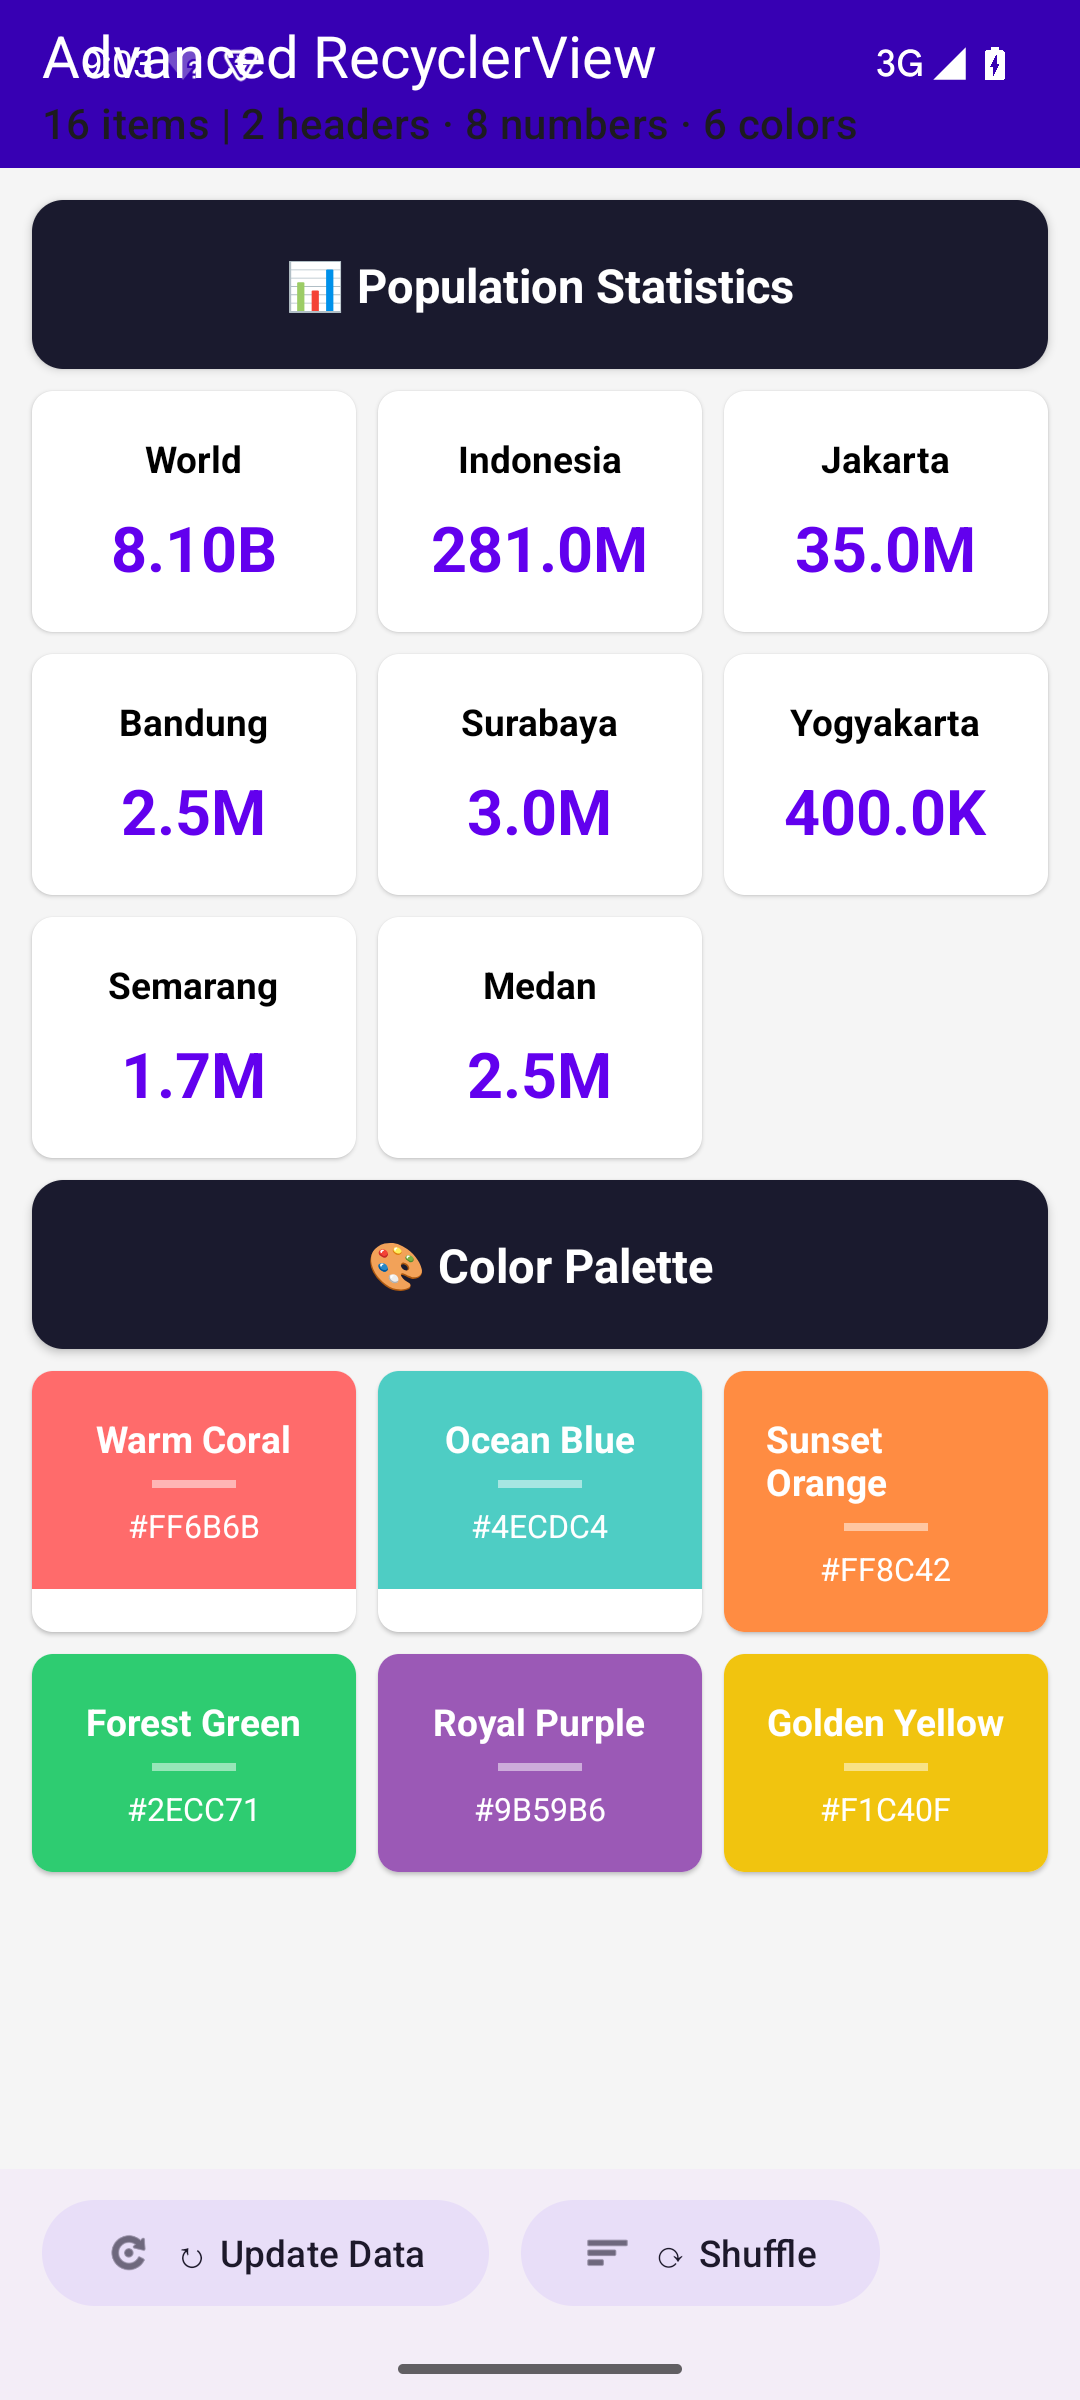
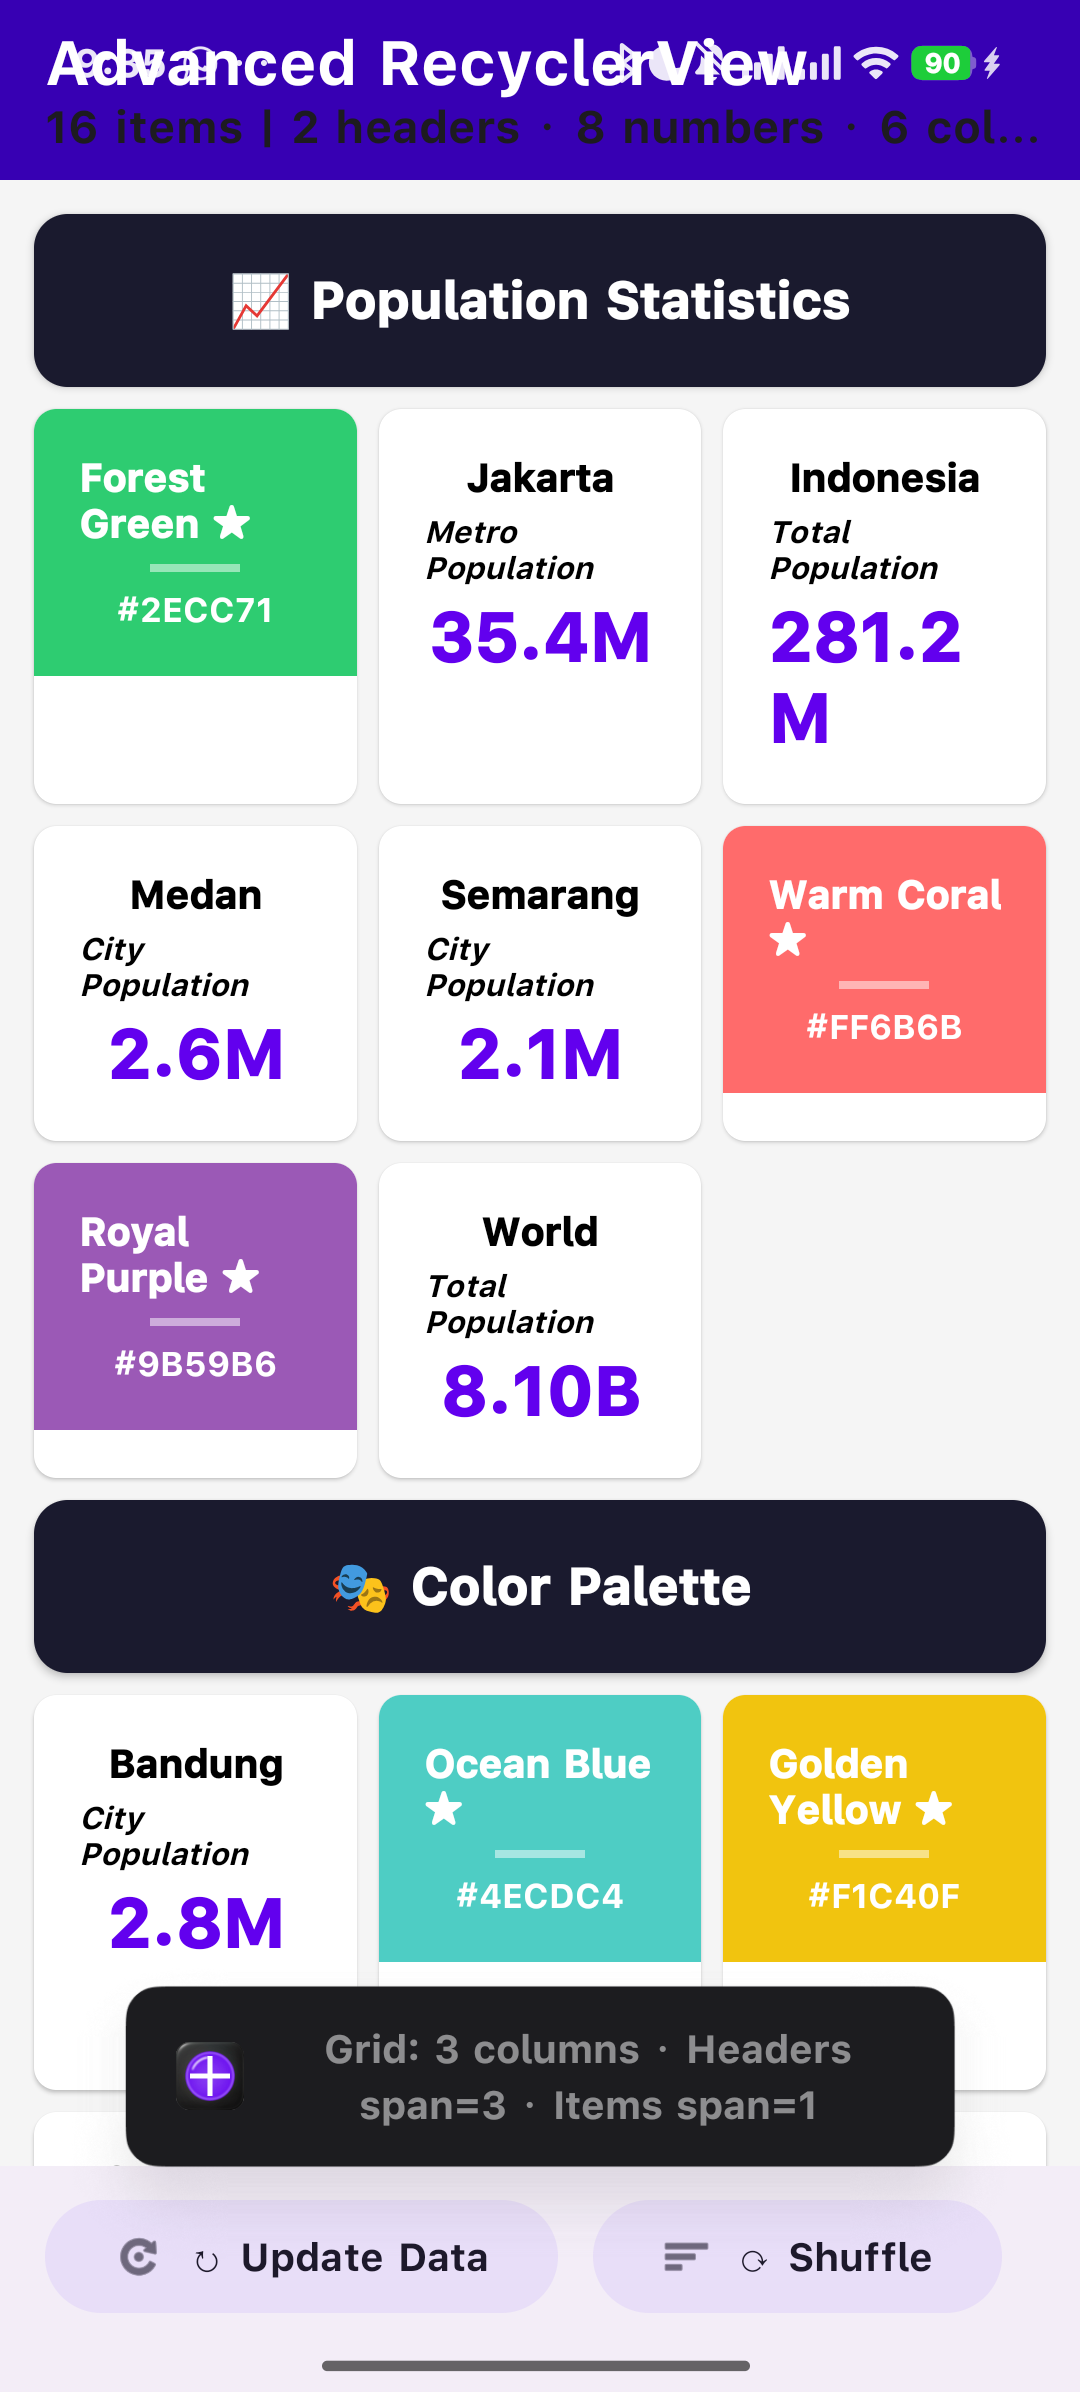
fix: perbaiki bug item_number, update ke Android 15, tambah CardView dependency, enableEdgeToEdge, update screenshot

diff --git a/app/src/main/java/com/example/tugas10/MainActivity.kt b/app/src/main/java/com/example/tugas10/MainActivity.kt
@@ -1,7 +1,9 @@
 package com.example.tugas10
 
 import android.os.Bundle
+
 import android.widget.Toast
+import androidx.activity.enableEdgeToEdge
 import androidx.appcompat.app.AppCompatActivity
 import androidx.databinding.DataBindingUtil
 import androidx.lifecycle.ViewModelProvider
@@ -27,6 +29,7 @@ class MainActivity : AppCompatActivity() {
 
     override fun onCreate(savedInstanceState: Bundle?) {
         super.onCreate(savedInstanceState)
+        enableEdgeToEdge()
 
         binding = DataBindingUtil.setContentView(this, R.layout.activity_main)
         viewModel = ViewModelProvider(this)[MainViewModel::class.java]

diff --git a/README.md b/README.md
@@ -12,25 +12,25 @@
 
 ---
 
-## Screenshot
+## Screenshot (HP Android 15 — Xiaomi 25098RA98G)
 
 **Tampilan Grid (Multiple View Types)**
 
 ![Grid View](screenshots/tugas10_grid.png)
 
- Jadi disini bisa diliat ada 3 jenis tampilan item yang berbeda. Header span nya 3 jadi full satu baris, terus item number sama color masing-masing 1 kolom doang.
+Ada 3 jenis tampilan item: Header (span 3, full baris), Number Item (1 kolom), dan Color Item (1 kolom). Deskripsi dan angka sekarang terpisah rapi.
 
 **Setelah Update Data**
 
 ![After Update](screenshots/tugas10_updated.png)
 
-Ini pas gw pencet tombol Update Data, angka populasinya nambah random. Yang keupdate cuma item-item yang berubah aja, yang lain diem. Makanya pake ListAdapter tuh enak, gak perlu render ulang semua.
+Pas tombol Update Data ditekan, angka populasi nambah random. DiffUtil cuma nge-render ulang item yang berubah aja, sisanya diem.
 
 **Setelah Di-shuffle**
 
 ![After Shuffle](screenshots/tugas10_shuffle.png)
 
-Tombol Shuffle ngacak urutan item tapi Headernya tetep di tempat. DiffUtil otomatis deteksi pergerakan dan cuma animasi item yang pindah doang, mantep.
+Tombol Shuffle ngacak urutan item non-Header. Header tetep di tempat, DiffUtil deteksi pergerakan dan cuma animasi item yang pindah.
 
 ---
 
@@ -38,53 +38,52 @@ Tombol Shuffle ngacak urutan item tapi Headernya tetep di tempat. DiffUtil otoma
 
 ### 1. ListAdapter + DiffUtil
 
-Biasanya kalo pake RecyclerView.Adapter biasa, tiap kali data berubah kita harus panggil `notifyDataSetChanged()` yang nge-render ulang SEMUA item dari awal. Boros banget apalagi kalo datanya banyak.
+Pake `ListAdapter` yang nerima `DiffUtil.ItemCallback`. Pas data di-update, DiffUtil ngebandingin item-item lama vs baru di background thread, terus cuma item yang berubah aja yang di-render ulang.
 
-Nah disini gw pake `ListAdapter` yang nerima `DiffUtil.ItemCallback`. Jadi pas data di-update, DiffUtil bakal ngebandingin item-item lama sama baru di background thread, terus cuma item yang beneran berubah aja yang di-render ulang. Implementasi callbacknya:
-
-- `areItemsTheSame()` - ngecek pake `id`, kalo id nya sama berarti item itu sama cuma mungkin isinya berubah
-- `areContentsTheSame()` - ngecek pake equals data class, kalo semua properti sama ya gak usah di-render ulang
+- `areItemsTheSame()` — ngecek pake `id`
+- `areContentsTheSame()` — ngecek pake equals data class
 
 ### 2. Multiple View Types
 
-Adapter ini bisa nampilin 3 jenis layout berbeda dalam satu RecyclerView:
-
-- **HEADER** - buat judul section, background gelap, full width
-- **NUMBER_ITEM** - nampilin data populasi dengan format angka otomatis (pake BindingAdapter)
-- **COLOR_ITEM** - item dengan background warna-warni, pake custom BindingAdapter juga
-
-Caranya tinggal override `getItemViewType()` terus balikin nilai sesuai tipe itemnya.
+Adapter nampilin 3 jenis layout dalam satu RecyclerView:
+- **HEADER** — judul section, full width (span 3)
+- **NUMBER_ITEM** — data populasi dengan format angka otomatis
+- **COLOR_ITEM** — item dengan background warna-warni
 
 ### 3. GridLayoutManager + SpanSizeLookup
 
-RecyclerView pake GridLayoutManager dengan 3 kolom. Biar Headernya bisa full width, gw pake SpanSizeLookup:
-
-- HEADER -> span 3 (full baris)
-- NUMBER_ITEM -> span 1
-- COLOR_ITEM -> span 1
-
-Jadi layoutnya rapi, Headernya gak kepotong kolom.
+GridLayoutManager 3 kolom + SpanSizeLookup:
+- HEADER → span 3 (full baris)
+- NUMBER_ITEM → span 1
+- COLOR_ITEM → span 1
 
 ### 4. Custom BindingAdapter
 
-Buat ngisi value dari XML langsung tanpa harus nulis kode binding di ViewHolder, gw bikin 2 BindingAdapter:
-
-- `backgroundColorHex` - ngeset background color dari string hex langsung di XML layout, misal `app:backgroundColorHex="@{item.colorHex}"`
-- `formattedNumber` - ngeformat angka gede biar enak dibaca, misal 8.1M, 281K, 1.5M, dll
+2 BindingAdapter kustom:
+- `backgroundColorHex` — set background color dari string hex di XML
+- `formattedNumber` — format angka besar (8.1B, 281.0M, 2.5M, dll)
 
 ### 5. ViewHolder Pattern
 
-ViewHolder dibuat pake constructor private terus factory method di companion object. Jadi cara bikin ViewHolder-nya lewat `ViewHolder.from(parent)` aja, lebih bersih dan gak bisa diinstansiasi sembarangan.
+Private constructor + companion object factory `from(parent)`, lebih clean.
+
+### 6. Android 15 — Edge-to-Edge
+
+Panggil `enableEdgeToEdge()` di `onCreate()` biar UI optimal di HP Android 15.
+
+### 7. CardView Dependency Eksplisit
+
+`implementation("androidx.cardview:cardview:1.0.0")` ditambahkan biar dependency lebih jelas.
 
 ---
 
 ## Perbedaan RecyclerView.Adapter vs ListAdapter
 
 **RecyclerView.Adapter biasa:**
-Pas data berubah, kita panggil `notifyDataSetChanged()` dan BOOM — semua item ke-render ulang meskipun cuma 1 item yang nilainya berubah. Bayangin kalo itemnya ada 16, yang ke render ya 16 semua. Waste banget.
+Pas data berubah, `notifyDataSetChanged()` nge-render ulang SEMUA item. Waste banget.
 
 **ListAdapter + DiffUtil:**
-Kita tinggal panggil `submitList()` trus DiffUtil otomatis ngehitung di background thread: item mana yang baru, mana yang berubah, mana yang dihapus, mana yang pindah posisi. Hasilnya cuma item-item yang beneran perlu di-update aja yang kena notify. Efisien pol.
+`submitList()` → DiffUtil hitung di background thread → cuma item yang berubah kena notify.
 
 Contoh perbandingan dari 16 item:
 
@@ -93,8 +92,6 @@ Contoh perbandingan dari 16 item:
 | 1 item berubah | 16 item di-render ulang | 1 item doang |
 | 3 item berubah | 16 item di-render ulang | 3 item doang |
 | Item diacak | 16 item di-render ulang | 2 item dianimasikan |
-
-Jelas banget selisihnya. Di aplikasi realtime kayak chat atau feed sosial yang datanya sering berubah, pake ListAdapter tuh pengaruh banget ke performa apalagi kalo listnya panjang.
 
 ---
 
@@ -131,5 +128,6 @@ app/src/main/res/layout/
 
 - Min SDK: 26 (Android 8)
 - Target SDK: 35 (Android 15)
-- Pake Kotlin 2.1.0 + AGP 8.7.3
-- Dependencies: RecyclerView, CardView, Material3, Data Binding, ViewModel, LiveData
+- Kotlin 2.1.0 + AGP 8.7.3 + Gradle 8.13
+- Dependencies: RecyclerView 1.4.0, CardView 1.0.0, Material3, Data Binding, ViewModel, LiveData
+- Dicek pada HP Xiaomi 25098RA98G (Android 15 / API 35)